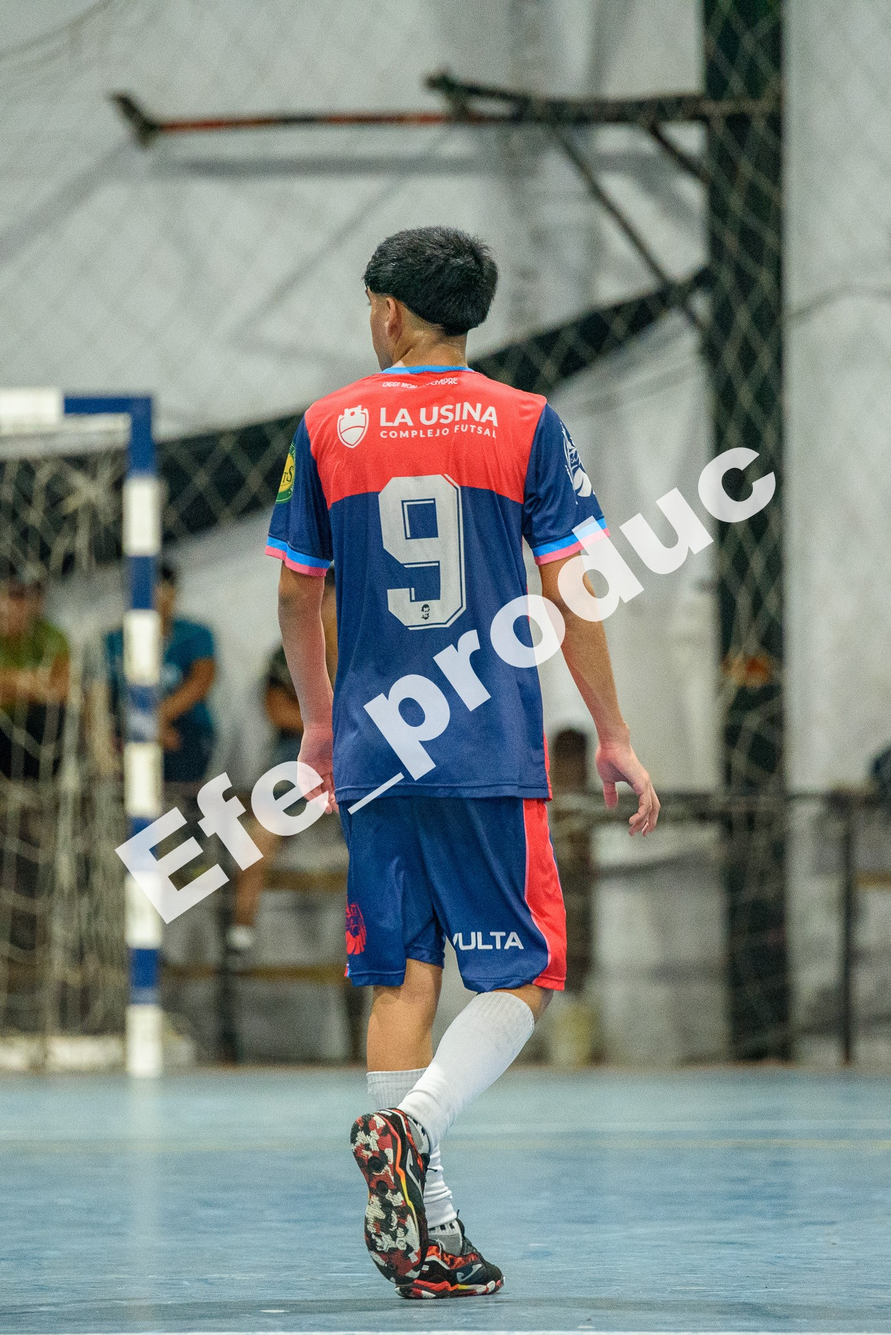
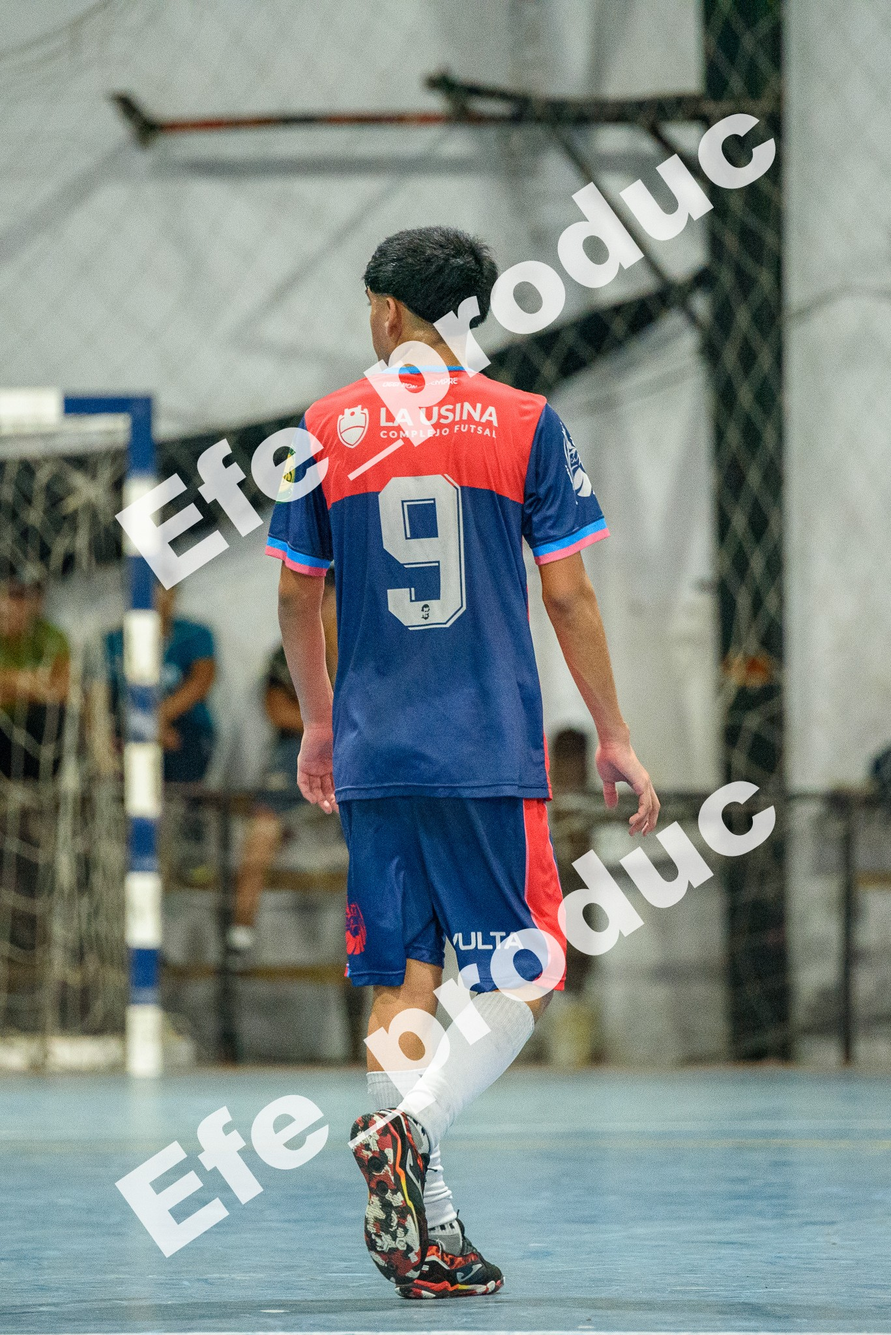
automatizacion funcionando

diff --git a/procesar-imagenes.js b/procesar-imagenes.js
@@ -36,45 +36,72 @@ async function procesarAlbum(album) {
 
    
 
-    // 🔹 WATERMARK TEXTO DIAGONAL PRO
+    // 🔹 WATERMARK INTELIGENTE (HORIZONTAL vs VERTICAL)
 const image = sharp(input);
 const metadata = await image.metadata();
 
-// 🔹 SVG TEXTO DIAGONAL
-const svgText = `
-<svg width="${metadata.width}" height="${metadata.height}">
-  <style>
-    .title {
-      fill: white;
-      font-size: ${Math.floor(metadata.width / 7)}px;
-      font-family: Impact, Arial Black, sans-serif;
-      opacity: 0.75;
-      font-weight: bold;
-    }
-  </style>
+const isVertical = metadata.height > metadata.width;
 
-  <g transform="rotate(-35 ${metadata.width/2} ${metadata.height/2})">
-    <text 
-      x="50%" 
-      y="50%" 
-      text-anchor="middle" 
-      dominant-baseline="middle" 
-      class="title">
-      Efe_produc
-    </text>
-  </g>
-</svg>
-`;
+// 🔹 CONFIG TEXTO
+const fontSize = Math.floor(metadata.width / 7);
+
+// 🔹 FUNCIÓN PARA CREAR SVG
+function crearSVG(offsetY = 0) {
+  return `
+  <svg width="${metadata.width}" height="${metadata.height}">
+    <style>
+      .title {
+        fill: white;
+        font-size: ${fontSize}px;
+        font-family: Impact, Arial Black, sans-serif;
+        opacity: 0.75;
+        font-weight: bold;
+      }
+    </style>
+
+    <g transform="rotate(-35 ${metadata.width/2} ${metadata.height/2 + offsetY})">
+      <text 
+        x="50%" 
+        y="${50 + (offsetY / metadata.height) * 100}%" 
+        text-anchor="middle" 
+        dominant-baseline="middle" 
+        class="title">
+        Efe_produc
+      </text>
+    </g>
+  </svg>
+  `;
+}
+
+// 🔹 COMPOSICIÓN
+let composites = [];
+
+// 👉 SI ES VERTICAL → DOS TEXTOS
+if (isVertical) {
+  composites.push({
+    input: Buffer.from(crearSVG(-metadata.height * 0.25)),
+    top: 0,
+    left: 0
+  });
+
+  composites.push({
+    input: Buffer.from(crearSVG(metadata.height * 0.25)),
+    top: 0,
+    left: 0
+  });
+
+} else {
+  // 👉 HORIZONTAL → UNO SOLO (bien centrado)
+  composites.push({
+    input: Buffer.from(crearSVG(0)),
+    top: 0,
+    left: 0
+  });
+}
 
 // 🔹 APLICAR
 await image
-  .composite([
-    {
-      input: Buffer.from(svgText),
-      top: 0,
-      left: 0
-    }
-  ])
+  .composite(composites)
   .jpeg({ quality: 90 })
   .toFile(watermarkOutput);
   }
